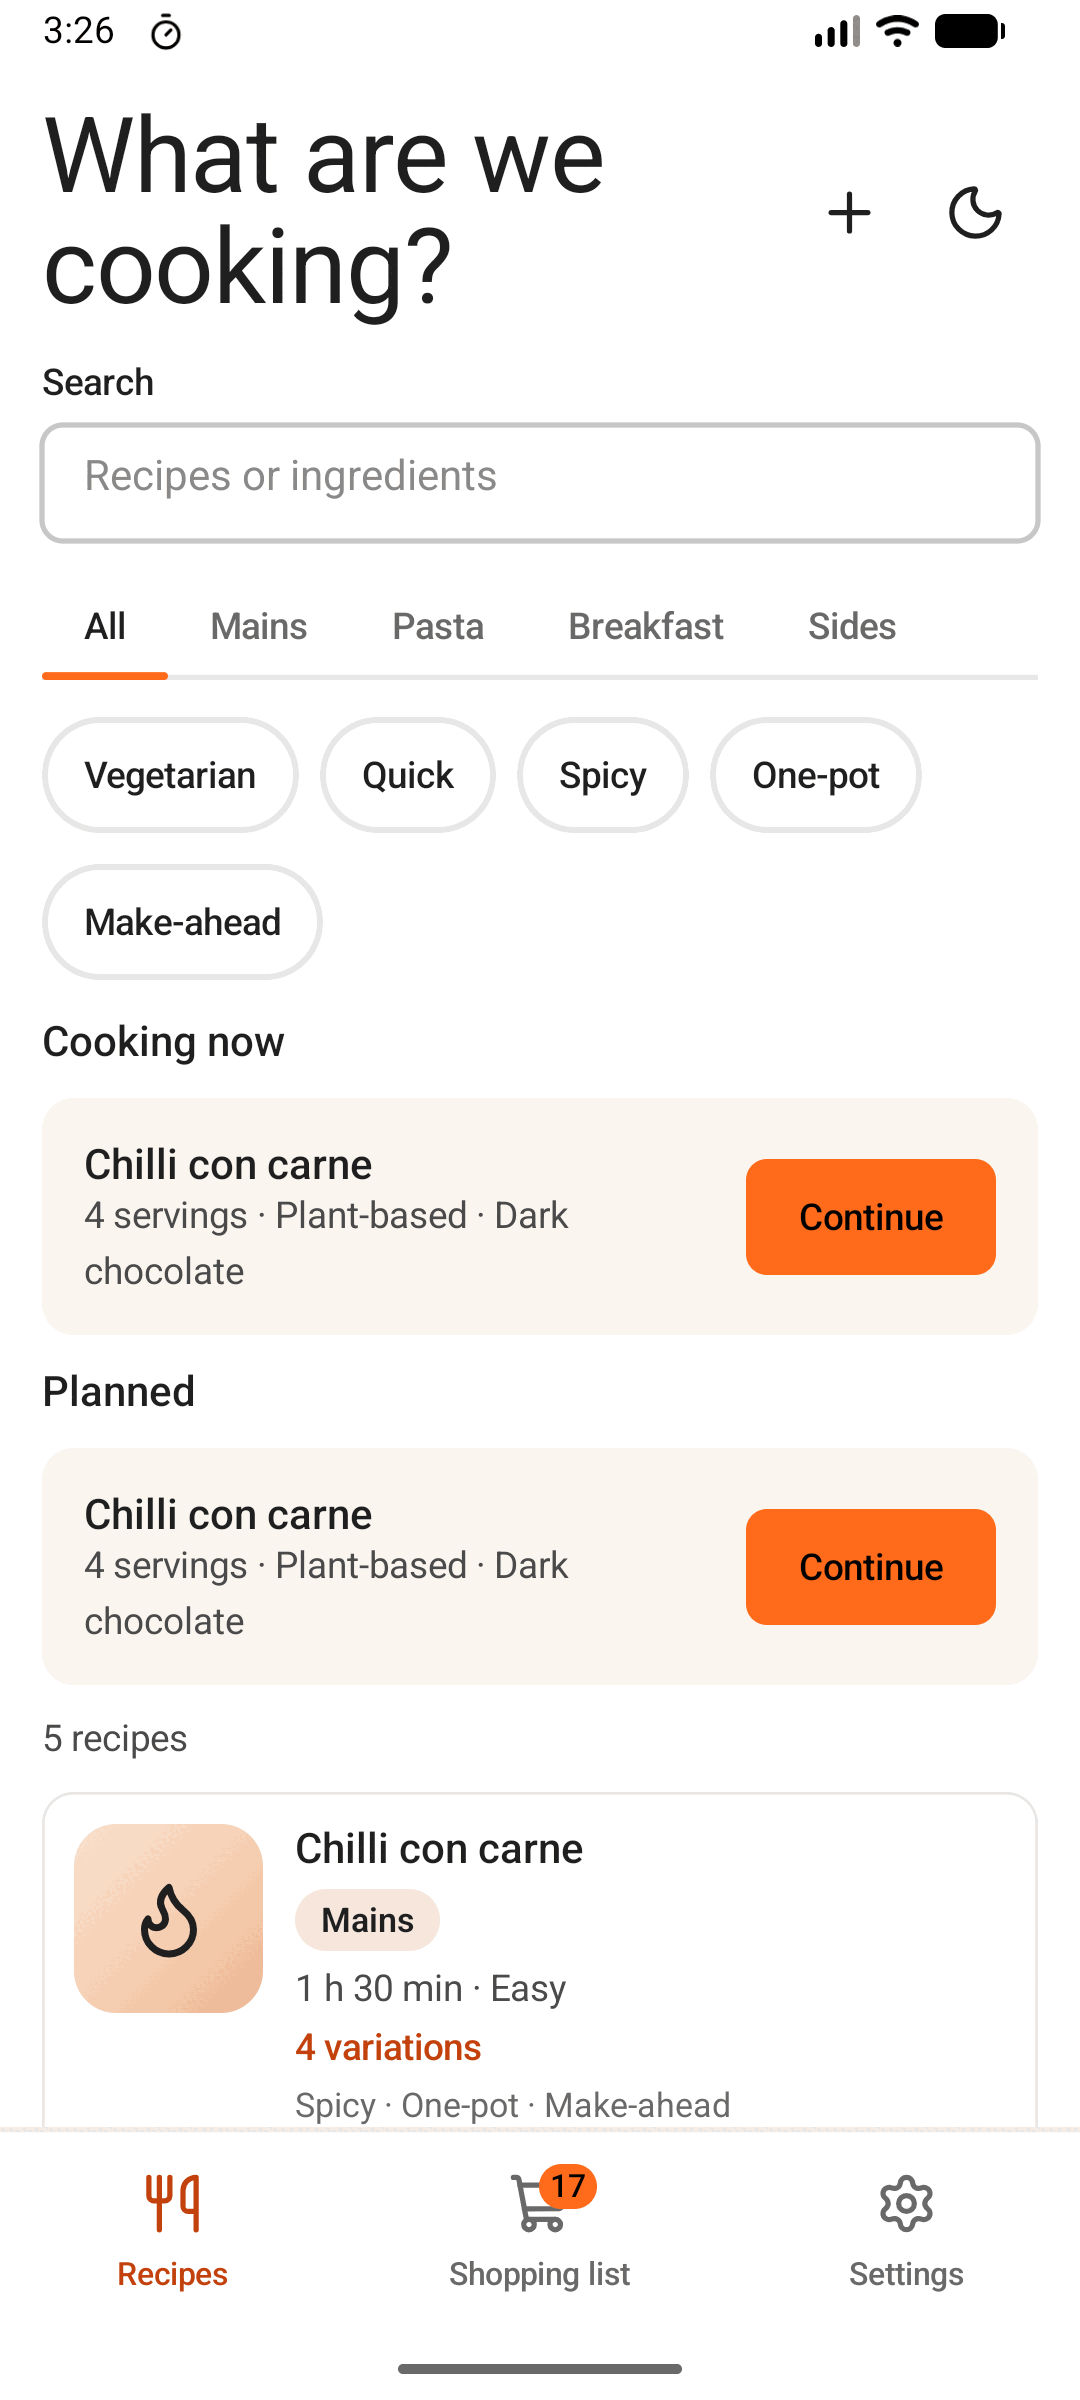
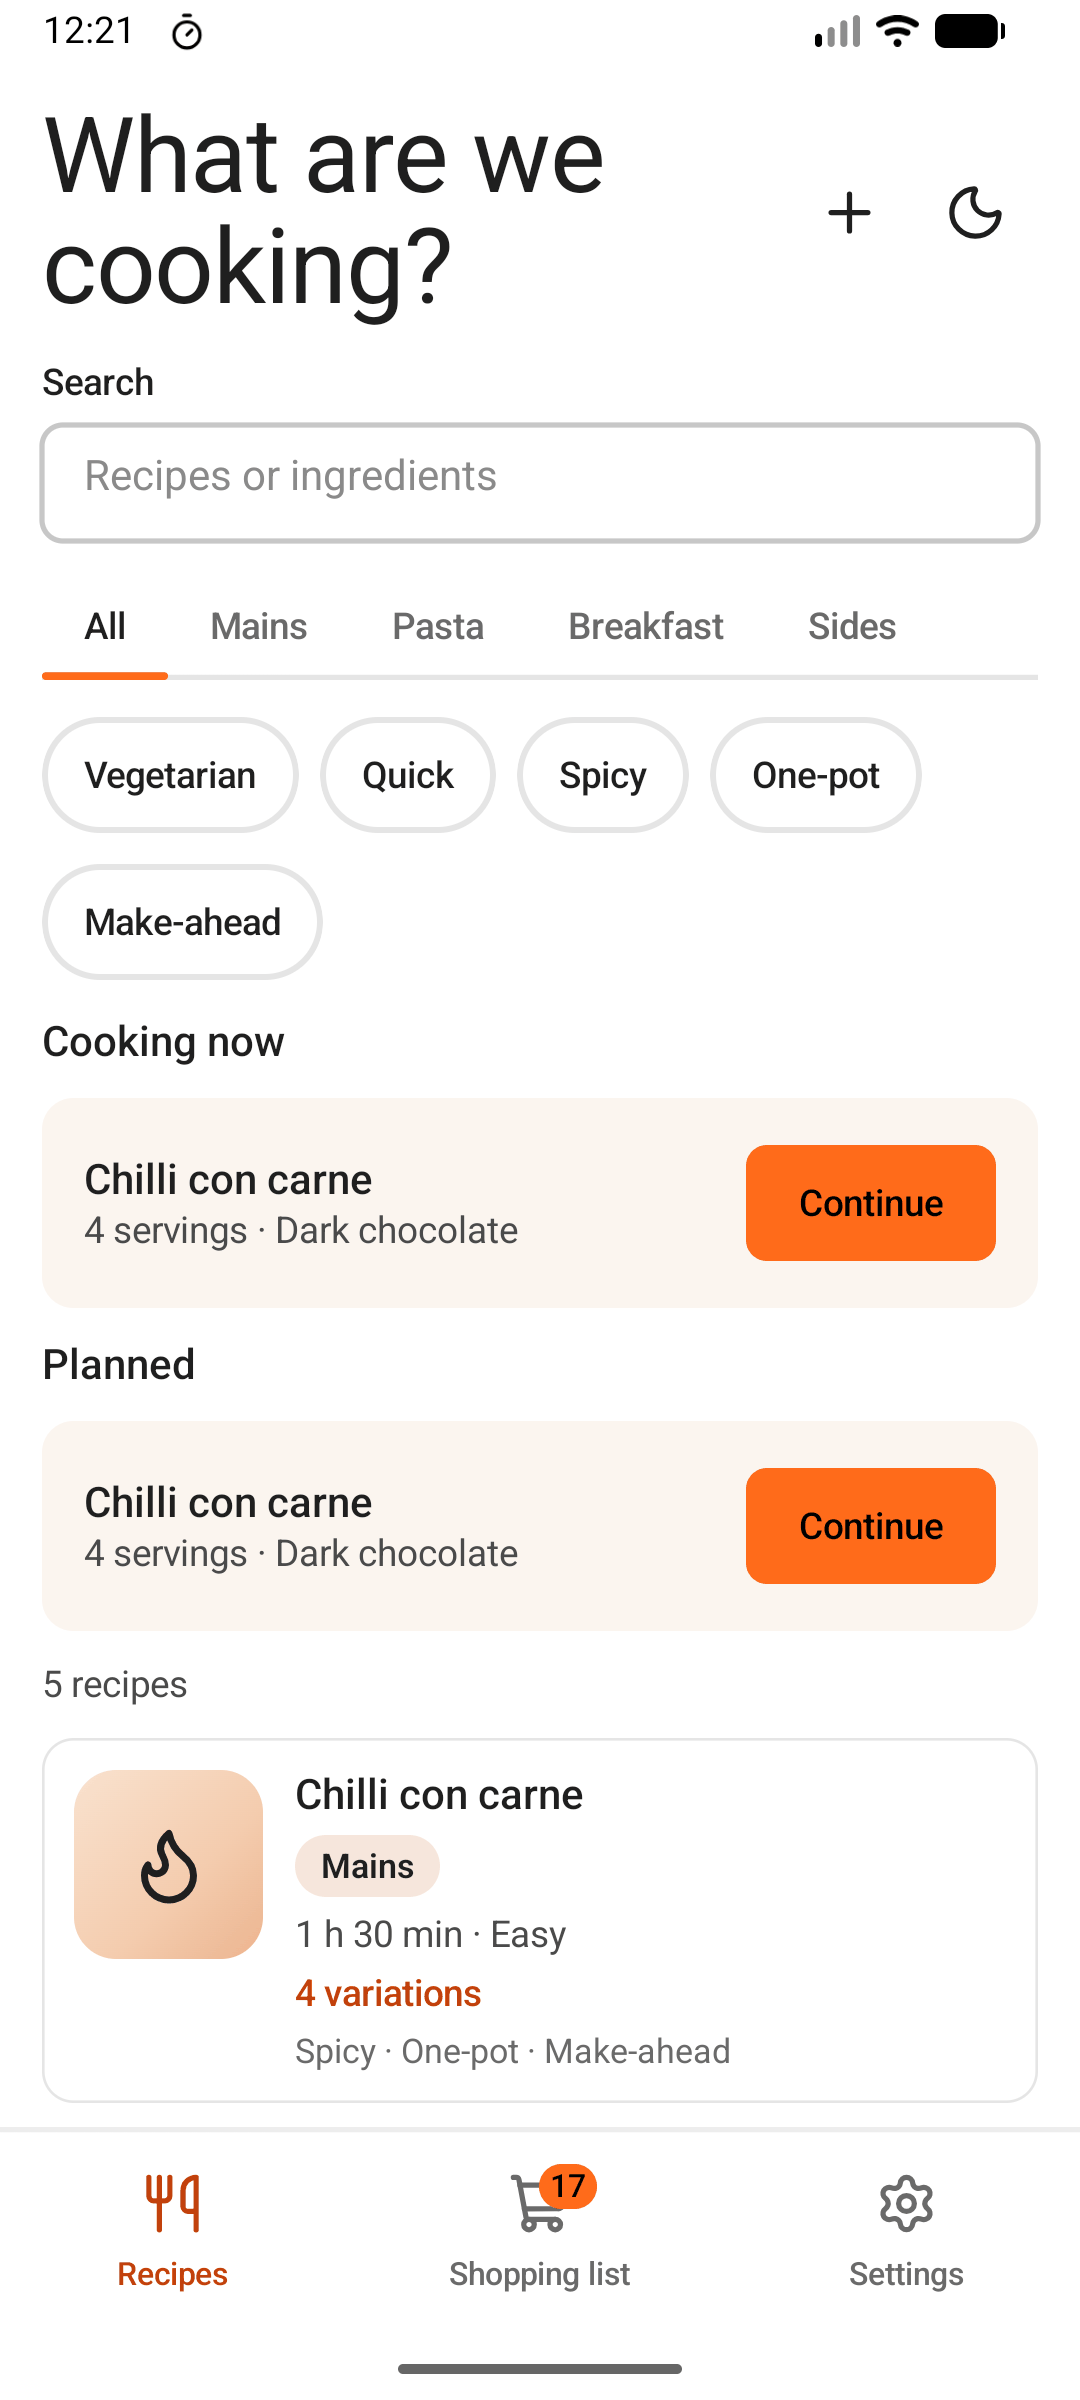
docs: refresh screenshots, README and site for new screens and features (#96)

diff --git a/docs/site/index.html b/docs/site/index.html
@@ -4,12 +4,12 @@
 <meta charset="utf-8">
 <meta name="viewport" content="width=device-width, initial-scale=1">
 <title>Simmer: open-source Android recipe app</title>
-<meta name="description" content="Simmer is an open-source Android recipe app. Import recipes from Instagram Reels, set servings and variations, cook step by step with timers, and keep a shopping list. On-device AI, no account.">
+<meta name="description" content="Simmer is an open-source Android recipe app. Share an Instagram Reel to import its recipe, listen to its sound on your phone, set servings and variations, cook step by step with timer notifications, and keep a shopping list. On-device AI, no account.">
 <link rel="canonical" href="https://stefan-meindl.github.io/Simmer/">
 <meta property="og:type" content="website">
 <meta property="og:site_name" content="Simmer">
 <meta property="og:title" content="Simmer: open-source Android recipe app">
-<meta property="og:description" content="Import recipes from Instagram Reels, scale servings, cook step by step with timers, and keep a shopping list. On-device AI, no account.">
+<meta property="og:description" content="Share an Instagram Reel to import its recipe, scale servings, cook step by step with timer notifications, and keep a shopping list. On-device AI, no account.">
 <meta property="og:url" content="https://stefan-meindl.github.io/Simmer/">
 <meta property="og:image" content="https://stefan-meindl.github.io/Simmer/screenshots/recipes.png">
 <meta property="og:image:alt" content="Simmer recipes tab with Cooking now and Planned cards">
@@ -46,16 +46,20 @@ footer{border-top:1px solid var(--line);padding:1.5rem 0 3rem;color:var(--muted)
 <header class="wrap">
   <h1>Simmer: open-source Android recipe app</h1>
   <p class="lead">Import a recipe from an Instagram Reel, set servings, pick variations, and cook step by step with timers. Runs on your phone, with on-device AI and no account.</p>
-  <a class="btn" href="https://github.com/stefan-meindl/Simmer/releases/latest">Download the latest APK</a>
+  <a class="btn" href="https://github.com/stefan-meindl/Simmer/releases">Download the APK</a>
 </header>
 <main class="wrap">
   <section aria-labelledby="features">
     <h2 id="features">What Simmer does</h2>
     <ul class="features">
-      <li><h3>Import from Instagram Reels</h3><p>Pull a recipe from the caption, or from the spoken audio, transcribed on your device with Whisper.</p></li>
+      <li><h3>Import from Instagram Reels</h3><p>Share a Reel to Simmer to get its caption, or press Listen to turn the sound into text on your phone with Whisper.</p></li>
+      <li><h3>Chatbot import with a Fix prompt</h3><p>Open the recipe in Gemini, paste the reply back, and copy a Fix prompt when a paste does not parse.</p></li>
       <li><h3>Servings and variations</h3><p>Scale amounts to the number of people and pick swaps and add-ins. Steps follow your choices.</p></li>
-      <li><h3>Step-by-step cooking</h3><p>Work through one step at a time and start a timer on any step that needs one.</p></li>
-      <li><h3>Shopping list</h3><p>Planned recipes add their ingredients, grouped by aisle.</p></li>
+      <li><h3>Cooking with timers</h3><p>Work through one step at a time. Timers run as notifications with Pause, Resume and Reset.</p></li>
+      <li><h3>Shopping list</h3><p>Planned recipes add their ingredients, grouped by aisle. Clear ticked items or the whole list, with Undo.</p></li>
+      <li><h3>Swipe to unplan or stop</h3><p>Swipe a Planned or Cooking now card away, and bring it back with Undo.</p></li>
+      <li><h3>Your kitchen</h3><p>Pick your appliances so new recipes only use what you have.</p></li>
+      <li><h3>Edit recipes</h3><p>Change any recipe, and restore the original of a built-in one.</p></li>
       <li><h3>On-device AI, no account</h3><p>Nothing to sign up for. Transcription runs locally on your phone.</p></li>
       <li><h3>Open source</h3><p>MIT licensed. Read the code or file an issue on <a href="https://github.com/stefan-meindl/Simmer">GitHub</a>.</p></li>
     </ul>
@@ -65,17 +69,22 @@ footer{border-top:1px solid var(--line);padding:1.5rem 0 3rem;color:var(--muted)
     <ul class="shots">
       <li><figure><img src="screenshots/recipes.png" width="1080" height="2400" loading="lazy" alt="Recipes tab with Cooking now and Planned cards"><figcaption>Recipes</figcaption></figure></li>
       <li><figure><img src="screenshots/recipe-detail.png" width="1080" height="2400" loading="lazy" alt="Recipe detail with servings and variations"><figcaption>Servings and variations</figcaption></figure></li>
+      <li><figure><img src="screenshots/edit-recipe.png" width="1080" height="2400" loading="lazy" alt="Edit recipe form with title, servings and ingredients"><figcaption>Edit recipe</figcaption></figure></li>
       <li><figure><img src="screenshots/cooking-step.png" width="1080" height="2400" loading="lazy" alt="Cooking step with a running timer"><figcaption>Cooking with timers</figcaption></figure></li>
+      <li><figure><img src="screenshots/timer-notification.png" width="1080" height="2400" loading="lazy" alt="Timer notification with a Pause button"><figcaption>Timer notification</figcaption></figure></li>
       <li><figure><img src="screenshots/shopping-list.png" width="1080" height="2400" loading="lazy" alt="Shopping list grouped by aisle"><figcaption>Shopping list</figcaption></figure></li>
       <li><figure><img src="screenshots/import.png" width="1080" height="2400" loading="lazy" alt="Add a recipe with a chatbot"><figcaption>Add a recipe</figcaption></figure></li>
+      <li><figure><img src="screenshots/fix-prompt.png" width="1080" height="2400" loading="lazy" alt="A reply that does not parse, with the Copy fix prompt button"><figcaption>Fix prompt</figcaption></figure></li>
       <li><figure><img src="screenshots/recipe-created.png" width="1080" height="2400" loading="lazy" alt="The imported recipe, ready to save"><figcaption>Review before saving</figcaption></figure></li>
+      <li><figure><img src="screenshots/reel-import.png" width="1080" height="2400" loading="lazy" alt="Reel card with caption and the Listen to the Reel button"><figcaption>Share a Reel</figcaption></figure></li>
+      <li><figure><img src="screenshots/your-kitchen.png" width="1080" height="2400" loading="lazy" alt="Your kitchen appliance checklist"><figcaption>Your kitchen</figcaption></figure></li>
     </ul>
   </section>
   <section aria-labelledby="install">
     <h2 id="install">Install</h2>
     <p>Simmer is installed by sideloading the APK. It needs Android 8.0 or newer.</p>
     <ol>
-      <li>Download the APK from the <a href="https://github.com/stefan-meindl/Simmer/releases/latest">latest release</a>.</li>
+      <li>Download the APK from the <a href="https://github.com/stefan-meindl/Simmer/releases">releases page</a>.</li>
       <li>Allow "install unknown apps" for your browser or file manager, then open the APK.</li>
     </ol>
     <p>More in the <a href="https://github.com/stefan-meindl/Simmer/blob/main/docs/releasing.md">install notes</a>.</p>

diff --git a/README.md b/README.md
@@ -2,25 +2,41 @@
 
 Simmer is an Android recipe app. Browse built-in and imported recipes, set servings and pick variations, cook step by step with timers, and keep a shopping list. See the [project site](https://stefan-meindl.github.io/Simmer/).
 
+## Features
+
+- **Share an Instagram Reel to Add recipe.** Simmer fetches the caption and adds it to the recipe text.
+- **Listen.** Turn a Reel's sound into text on your phone with Whisper, so nothing is uploaded.
+- **Open in Gemini and the Fix prompt.** Hand the recipe to a chatbot, paste the reply back, and get a ready-made prompt when a paste does not parse.
+- **Servings and variations.** Amounts and steps follow your servings, swaps and add-ins.
+- **Step-by-step cooking with timers.** Timers also run as notifications with Pause, Resume and Reset.
+- **Shopping list.** Planned recipes add their ingredients by aisle, with clear actions and Undo.
+- **Swipe to unplan or stop cooking,** with Undo.
+- **Your kitchen.** Pick your appliances so new recipes only use what you have.
+- **Edit recipe,** with Restore original for built-in recipes.
+
+See [GLOSSARY.md](GLOSSARY.md) for what each term means.
+
 ## Screenshots
 
 ### Recipes
 
-Plan a recipe and start cooking: it shows up under **Cooking now** and **Planned**.
+Plan a recipe and start cooking: it shows up under **Cooking now** and **Planned**. Swipe a card to unplan or stop cooking.
 
 <img src="docs/screenshots/recipes.png" alt="Recipes tab with Cooking now and Planned cards" width="280">
 
-### Recipe detail
+### Recipe detail and editing
 
-Set servings and pick swaps and add-ins. Amounts and steps follow your choices.
+Set servings and pick swaps and add-ins. Amounts and steps follow your choices. Edit any recipe, or restore the original.
 
 <img src="docs/screenshots/recipe-detail.png" alt="Recipe detail with servings and variations" width="280">
+<img src="docs/screenshots/edit-recipe.png" alt="Edit recipe form with title, servings and ingredients" width="280">
 
-### Cooking
+### Cooking and timers
 
-Work through the steps and start a timer on any step that needs one.
+Work through the steps and start a timer on any step that needs one. The timer keeps running in a notification.
 
 <img src="docs/screenshots/cooking-step.png" alt="Cooking step with a running timer" width="280">
+<img src="docs/screenshots/timer-notification.png" alt="Timer notification with a Pause button" width="280">
 
 ### Shopping list
 
@@ -30,10 +46,23 @@ Planned recipes add their ingredients, grouped by aisle.
 
 ### Add a recipe
 
-Paste a recipe into a chatbot, paste its reply back, and review the result before saving.
+Paste a recipe into a chatbot, paste its reply back, and review the result before saving. If a reply does not parse, copy the Fix prompt.
 
 <img src="docs/screenshots/import.png" alt="Add a recipe with a chatbot" width="280">
+<img src="docs/screenshots/fix-prompt.png" alt="A reply that does not parse, with the Copy fix prompt button" width="280">
 <img src="docs/screenshots/recipe-created.png" alt="The imported recipe, ready to save" width="280">
+
+### Add from an Instagram Reel
+
+Share a Reel to Simmer. Its caption lands in the recipe text, and **Listen to the Reel** turns the sound into text on your phone.
+
+<img src="docs/screenshots/reel-import.png" alt="Reel card with caption and the Listen to the Reel button" width="280">
+
+### Your kitchen
+
+Tick the appliances you own, so new recipes only use those.
+
+<img src="docs/screenshots/your-kitchen.png" alt="Your kitchen appliance checklist" width="280">
 
 ## Install
 
